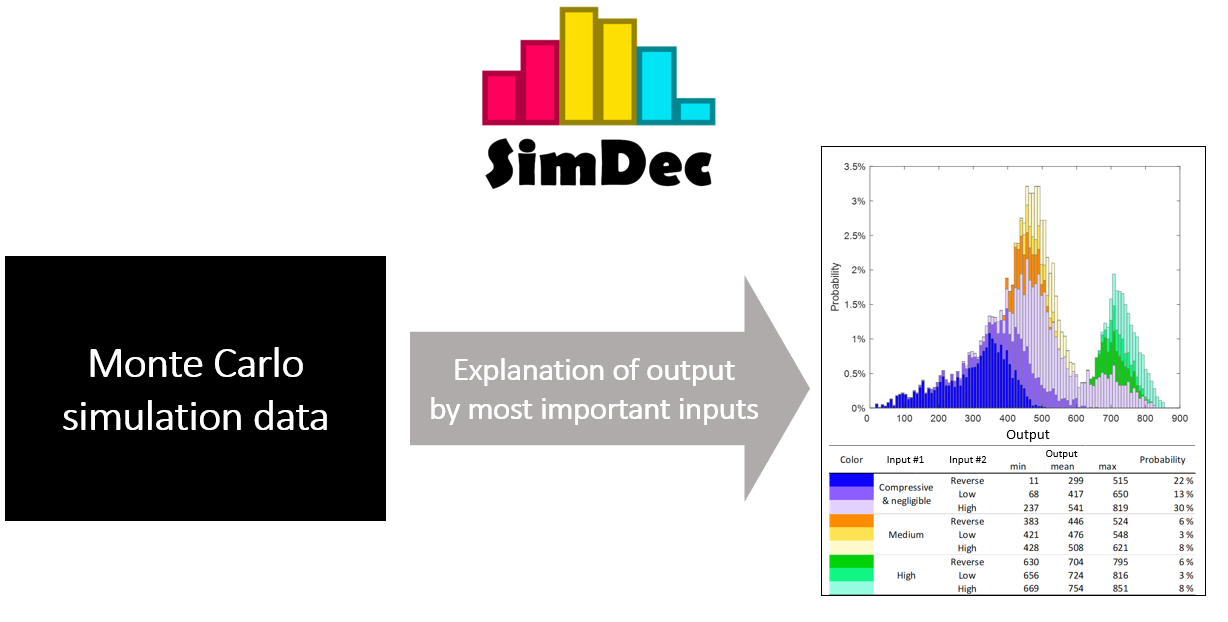
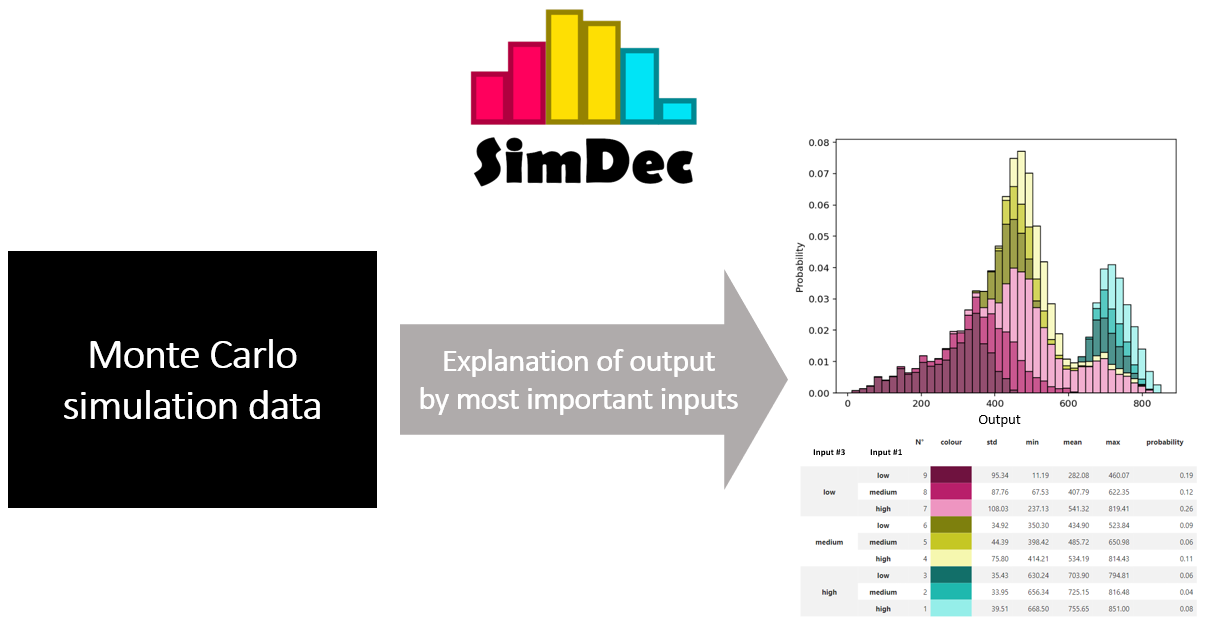
Add suggestions and presentation figure.

diff --git a/joss/paper.md b/joss/paper.md
@@ -26,7 +26,7 @@ bibliography: paper.bib
 
 # Summary
 
-Uncertainties are everywhere! Whether you are developing a new AI system,
+Uncertainties are everywhere. Whether you are developing a new AI system,
 running complex simulations or making an experiment in a lab, uncertainties
 influence the system. And you need a way to understand how these impact your
 results.
@@ -34,6 +34,8 @@ results.
 SimDec offers a novel visual way to understand the intricate role that
 uncertainties play. Thanks to a clear Python API and an interactive web
 dashboard, making uncertainty analysis accessible to everyone.
+
+![SimDec: explanation of output by most important inputs. See [@Kozlova2024].](simdec_presentation.png)
 
 # Statement of need
 
@@ -60,14 +62,15 @@ an emerging evidence of use for empirical data and AI.
 
 Besides proposing a comprehensive yet simple API through a Python packages
 available on PyPi, SimDec is also made available
-to practitioners through an online dashboard at https://simdec.io. The
-innovative methods of SimDec, the project relies on powerful methods
-from SALib [@Herman2017] and SciPy [@Virtanen2020; @Roy2023]-notably the
-QMC capabilities with `sp.stats.qmc` and sensitivity indices with
-`sp.stats.sensitivity_indices`. The dashboard is made possible thanks to Panel.
+to practitioners through an online dashboard at https://simdec.io. The project
+relies on powerful methods from SALib [@Herman2017] and
+SciPy [@Virtanen2020; @Roy2023]-notably the QMC capabilities with
+`sp.stats.qmc` and sensitivity indices with `sp.stats.sensitivity_indices`.
+The dashboard is made possible thanks to Panel.
 
 # Acknowledgements
 
-The authors thank ...
+The work on this open-source software was supported by grant #220177 from
+Finnish Foundation for Economic Foundation.
 
 # References
